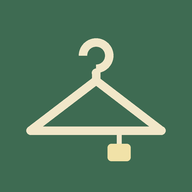
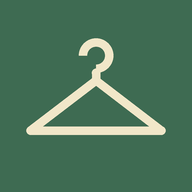
Add files via upload

Changed region(s): [[0.5312, 0.6875, 0.6875, 0.8438]]

diff --git a/index.html b/index.html
@@ -11,13 +11,13 @@
 <meta name="closet-app" content="5">
 <meta name="apple-mobile-web-app-title" content="My Closet">
 <meta name="apple-mobile-web-app-status-bar-style" content="default">
-<meta name="theme-color" content="#F3F2EC" media="(prefers-color-scheme: light)">
-<meta name="theme-color" content="#141A16" media="(prefers-color-scheme: dark)">
+<meta name="theme-color" content="#DCE7DD" media="(prefers-color-scheme: light)">
+<meta name="theme-color" content="#223029" media="(prefers-color-scheme: dark)">
 <style>
 :root{
-  --bg:#F3F2EC; --surface:#FFFFFF; --ink:#22302A; --muted:#5E6A61; --line:#DCDDD2;
-  --accent:#3E6B52; --accent-ink:#FFFFFF; --tag:#F1E2A8; --tag-ink:#5A4708; --sheet:#F8F7F2;
-  --err-bg:#F6DDD6; --err-ink:#7A2A1C;
+  --bg:#F3F2EC; --surface:#FCFBF6; --ink:#22302A; --muted:#5E6A61; --line:#DAD9CD;
+  --accent:#3E6B52; --accent-ink:#FFFFFF; --tag:#F1E2A8; --tag-ink:#5A4708; --sheet:#F7F5EC;
+  --err-bg:#F6DDD6; --err-ink:#7A2A1C; --band:#DCE7DD; --bar:#3E6B52; --bar-ink:#E9E3CC;
   --font:-apple-system, BlinkMacSystemFont, system-ui, "Segoe UI", Roboto, "Helvetica Neue", sans-serif;
   color-scheme:light;
   box-sizing:border-box;
@@ -27,15 +27,15 @@
 @media (prefers-color-scheme:dark){
   :root:not([data-theme="light"]){
     --bg:#141A16; --surface:#1D2520; --ink:#E9EDE6; --muted:#A3AEA5; --line:#2E3A33;
-    --accent:#8DBB9E; --accent-ink:#141A16; --tag:#4A3F18; --tag-ink:#F1E2A8; --sheet:#232C26;
-    --err-bg:#4A2620; --err-ink:#F6DDD6;
+    --accent:#8FB39A; --accent-ink:#141A16; --tag:#4A3F18; --tag-ink:#F1E2A8; --sheet:#232C26;
+    --err-bg:#4A2620; --err-ink:#F6DDD6; --band:#223029; --bar:#223029; --bar-ink:#C9D8CD;
     color-scheme:dark;
   }
 }
 :root[data-theme="dark"]{
   --bg:#141A16; --surface:#1D2520; --ink:#E9EDE6; --muted:#A3AEA5; --line:#2E3A33;
-  --accent:#8DBB9E; --accent-ink:#141A16; --tag:#4A3F18; --tag-ink:#F1E2A8; --sheet:#232C26;
-  --err-bg:#4A2620; --err-ink:#F6DDD6;
+    --accent:#8FB39A; --accent-ink:#141A16; --tag:#4A3F18; --tag-ink:#F1E2A8; --sheet:#232C26;
+    --err-bg:#4A2620; --err-ink:#F6DDD6; --band:#223029; --bar:#223029; --bar-ink:#C9D8CD;
   color-scheme:dark;
 }
 html{scroll-padding-top:env(safe-area-inset-top,0px)}
@@ -198,6 +198,24 @@ textarea{width:100%;margin-top:6px;padding:10px 12px;border:1px solid var(--line
 .stoprow{display:flex;align-items:center;justify-content:space-between;gap:10px;padding:10px 0;border-bottom:1px solid var(--line)}
 .stoprow span{display:flex;flex-direction:column}.stoprow small{color:var(--muted);font-size:13px}
 .stat span{font-size:13px;color:var(--muted)}
+
+body{background:linear-gradient(var(--band) 0 calc(150px + env(safe-area-inset-top,0px)),var(--bg) calc(150px + env(safe-area-inset-top,0px)))}
+main{padding-top:26px}
+.tabs{background:var(--bar);border-top:0}
+.tabs button{color:var(--bar-ink)}
+.tabs button[aria-current="page"]{color:var(--tag-ink)}
+.tabs button[aria-current="page"]::after{content:"";position:absolute;inset:6px 8px auto 8px;top:6px;bottom:auto;height:calc(100% - 12px);left:8px;right:8px;border-radius:12px;background:var(--tag);z-index:-1}
+.tabs button{isolation:isolate}
+.chip{background:var(--surface)}
+.chip[aria-pressed="true"]{background:var(--accent);color:var(--accent-ink);border-color:var(--accent)}
+.btn.ghost{background:var(--surface)}
+.hangtag{background:var(--surface)}
+.seg button[aria-pressed="true"]{background:var(--accent);color:var(--accent-ink)}
+.banner{background:var(--tag);color:var(--tag-ink)}
+.lay{background:var(--sheet)}
+.item .ph{background:var(--surface)}
+.brand{display:flex;align-items:center;gap:12px;text-transform:lowercase;font-size:36px;letter-spacing:.01em}
+.brand .logo{width:38px;height:38px;border-radius:10px;flex:none}
 </style>
 </head>
 <body>
@@ -1081,7 +1099,7 @@ function renderCloset(){
   const dueCount=all.filter(dueForWash).length;
   const filters=["All",...(dueCount?["Due for a wash"]:[]),...(negCount?["Not worn lately"]:[]),...(neverCount?["Never worn"]:[]),...(offCount?["Unavailable"]:[]),...CATS.filter(c=>all.some(i=>i.category===c))];
   const pieces=all.reduce((n,i)=>n+(i.qty||1),0);
-  let h=`<div class="head"><div><h1>My Closet</h1><p class="sub">${pieces} ${pieces===1?"piece":"pieces"}${negCount?`, ${negCount} not worn in 3+ weeks`:""}</p></div>
[1 lines of base64/hex data omitted]
   <div class="actions">${all.length?`<button class="btn ghost" data-act="select">${ui.selecting?"Done":"Select"}</button>`:""}<button class="btn" data-act="add">Add pieces</button></div></div>`;
   if(todo)h+=`<div class="banner"><span>${todo} ${todo===1?"piece needs":"pieces need"} tags</span><button class="btn" data-act="tagnow">Tag now</button></div>`;
   else if(review)h+=`<div class="banner"><span>${review} ${review===1?"piece is":"pieces are"} missing details the ideas use</span><button class="btn" data-act="reviewnow">Review</button></div>`;
